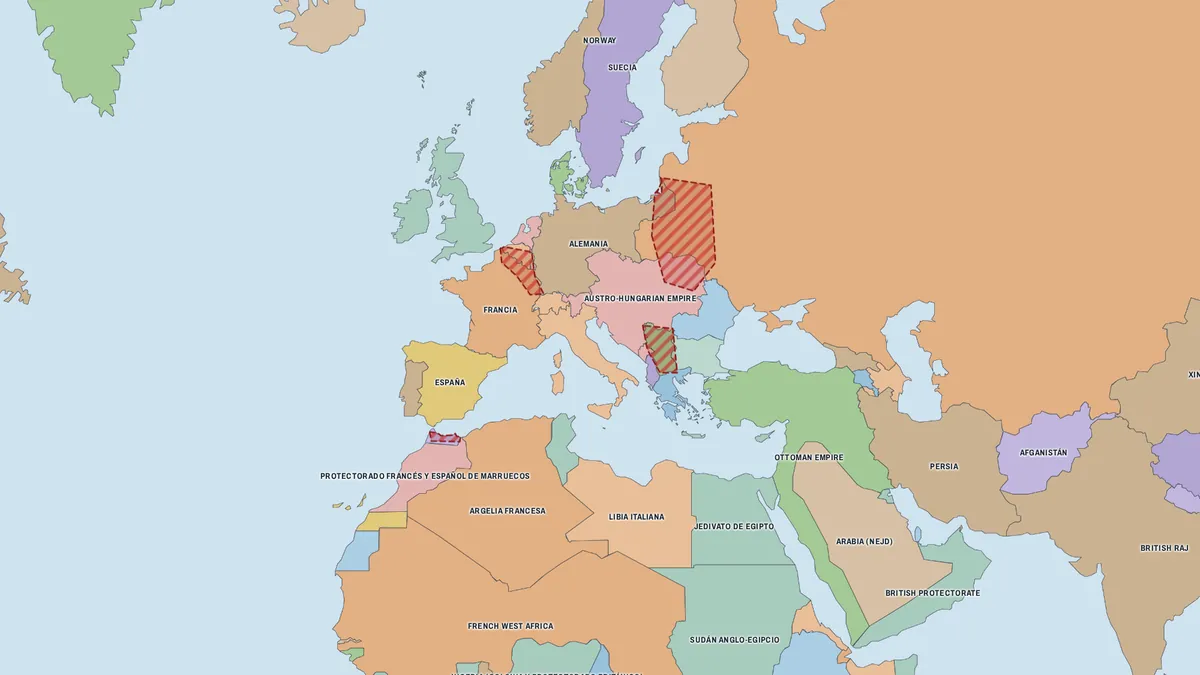
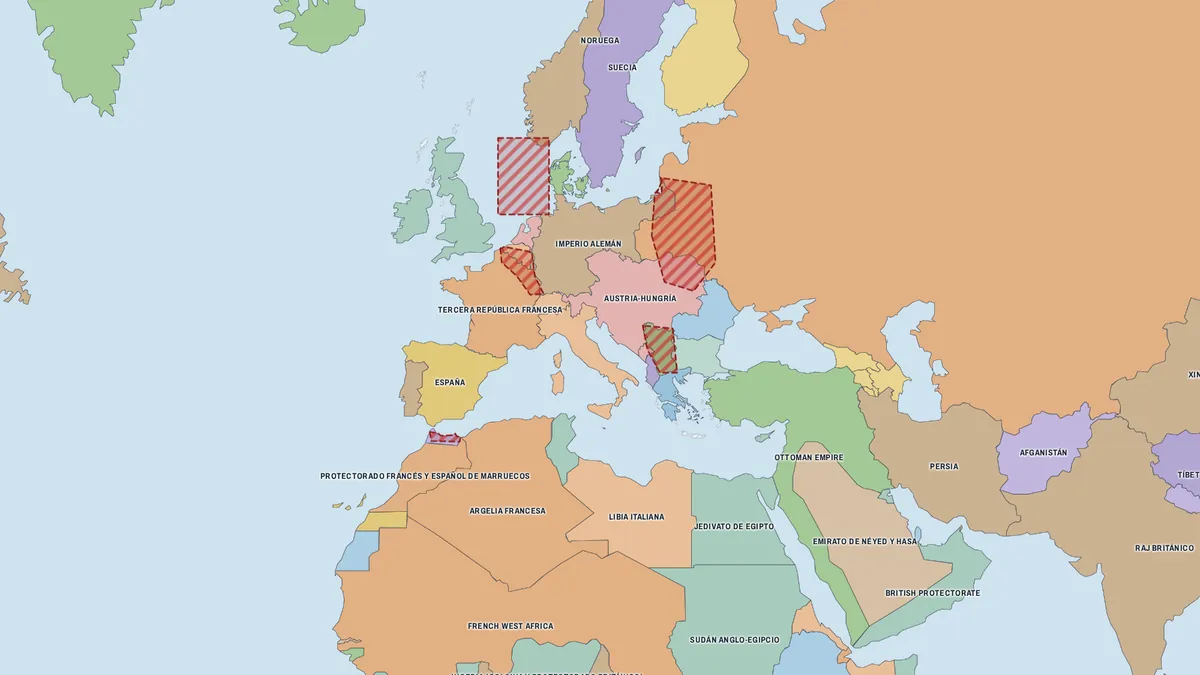
feat(web): recuentos de la portada y láminas regeneradas
Claude-Session: https://claude.ai/code/session_01NZu73LRDWZHNznEX5qiivJ

diff --git a/web/index.html b/web/index.html
@@ -124,7 +124,7 @@
         <dl class="leyenda-grande">
           <div>
             <dt><span class="muestra estados" aria-hidden="true"></span></dt>
-            <dd><b>Fronteras</b><span>Cada color es un estado o territorio. Proceden de 54 mapas históricos; entre dos fechas se muestra el último disponible (la barra indica de qué año son las fronteras).</span></dd>
+            <dd><b>Fronteras</b><span>Cada color es un estado o territorio. Proceden de 82 mapas históricos; entre dos fechas se muestra el último disponible (la barra indica de qué año son las fronteras).</span></dd>
           </div>
           <div>
             <dt><span class="rotulo-mapa">Congo Belga</span></dt>
@@ -251,11 +251,11 @@
       <div class="cont dos-col">
         <div>
           <h2>Cada dato, con su fuente</h2>
-          <p class="recuento">Hoy la lámina reúne <b>263</b> estados y entidades, <b>941</b> batallas de <b>160</b> conflictos, <b>384</b> zonas de guerra, <b>180</b> acontecimientos y <b>35</b> territorios pequeños.</p>
+          <p class="recuento">Hoy la lámina reúne <b>326</b> estados y entidades, <b>1051</b> batallas de <b>203</b> conflictos, <b>457</b> zonas de guerra, <b>251</b> acontecimientos y <b>35</b> territorios pequeños.</p>
           <p class="nota">Las fronteras son aproximadas: resumen situaciones que a menudo fueron difusas o disputadas. Los datos son orientativos y pueden contener errores: si encuentras uno, <a href="colaborar.html#asistente">puedes corregirlo</a>. <a href="aviso-legal.html#exactitud">Más sobre la exactitud de los datos</a>.</p>
         </div>
         <ul class="colofon">
-          <li><a href="https://github.com/aourednik/historical-basemaps" target="_blank" rel="noopener">historical-basemaps</a><span>Fronteras · 53 mapas (y uno derivado, 2011)</span></li>
+          <li><a href="https://github.com/aourednik/historical-basemaps" target="_blank" rel="noopener">historical-basemaps</a><span>Fronteras · 53 mapas, corregidos (y 29 derivados de ellos)</span></li>
           <li><a href="https://es.wikipedia.org/" target="_blank" rel="noopener">Wikipedia</a><span>Fichas y fechas · CC BY-SA</span></li>
           <li><a href="https://www.wikidata.org/" target="_blank" rel="noopener">Wikidata</a><span>Gobernantes y coordenadas · CC0</span></li>
           <li><a href="https://ourworldindata.org/" target="_blank" rel="noopener">Our World in Data</a><span>Población · CC BY</span></li>

diff --git a/web/img/lamina/PROCEDENCIA.md b/web/img/lamina/PROCEDENCIA.md
@@ -15,4 +15,6 @@ Las 21 imágenes de esta carpeta son capturas de la propia aplicación (`web/map
 
 Las tres de −500 (`*-ac500`) se regeneraron el 2026-09-28 tras rellenar con `api/rellenar_geojson.py` la tierra sin atribuir del mapa de 500 a. C.; lo que sigue sin datos sale rayado, como en el mapa.
 
-Si cambian la paleta o las fronteras, conviene regenerarlas con la misma receta.
+Las 21 se regeneraron de nuevo el 2026-09-28, con la interfaz en español, tras aplicar las correcciones de fronteras de `api/correcciones/` (consultas c01-c07) y los nombres por época nuevos de las fichas.
+
+Si cambian la paleta o las fronteras, conviene regenerarlas con la misma receta: `python3 api/laminas.py` con la web servida en `http://127.0.0.1:9100/` (`cd web && python3 -m http.server 9100`).
